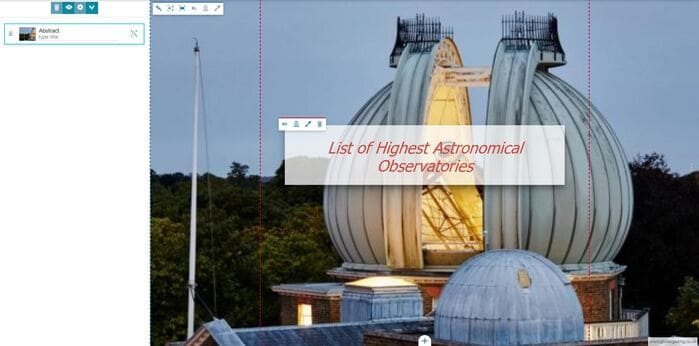
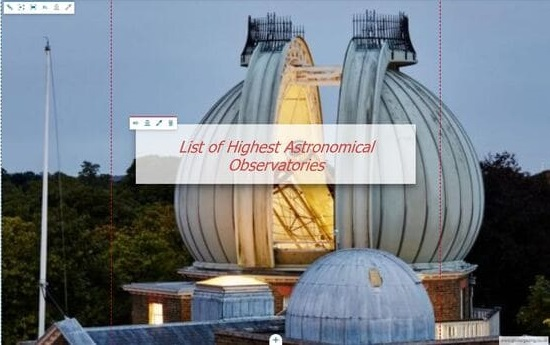
4438 geostory userguide second step

diff --git a/docs/theme/css/extra.css b/docs/theme/css/extra.css
@@ -67,7 +67,8 @@ li.md-tabs__item:hover{
 .rst-other-versions dl:nth-child(3), .rst-other-versions dl:nth-child(4) {
     display: none;
 }
-.ms-docimage {
+.ms-docimage, .md-typeset .ms-docimage{
+    max-width: 700px;
     display: block; 
     margin-left: auto; 
     margin-right: auto; 

diff --git a/docs/user-guide/title-section.md b/docs/user-guide/title-section.md
@@ -7,66 +7,68 @@ As soon as you create a new Story, by default, only a Title Section is present i
 
 By default, the content of a Title Section is a text window:
 
-<p style="text-align:center;"><img src="../img/title-section/text-window.jpg" style="max-width:700px;"/></p>
+<img src="../img/title-section/text-window.jpg" class="ms-docimage" style="width:250px"/>
 
 With a click inside the text window, it expands and the [Text Editor Toolbar](text-editor-toolbar.md) appears, allowing the user to write and edit the text of the title:
 
-<p style="text-align:center;"><img src="../img/title-section/text-editor.jpg" style="max-width:700px;"/></p>
+<img src="../img/title-section/text-editor.jpg" class="ms-docimage" style="width:600px"/>
 
 Once the text has been written and customized, it is possible to change the text window settings from the text window toolbar: 
 
-<p style="text-align:center;"><img src="../img/title-section/textwin-toolbar.jpg" style="max-width:700px;"/></p>
+<img src="../img/title-section/textwin-toolbar.jpg" class="ms-docimage" style="width:600px"/>
 
 The text window toolbar allows the user to change the following settings:
 
-* The **Change size** button <img src="../img/button/change-size.jpg" style="max-width:30px" valign="middle"/> can change the size of the text window in *Small*, *Medium*, *Large* or *Full*.
+* The **Change size** button <img src="../img/button/change-size.jpg" class="ms-docbutton"/> can change the size of the text window in *Small*, *Medium*, *Large* or *Full*.
 
-* The **Align content** button <img src="../img/button/align-content.jpg" style="max-width:30px" valign="middle"/> align the text window, inside the Container, on the *Left*, *Center* or *Right*.
+* The **Align content** button <img src="../img/button/align-content.jpg" class="ms-docbutton"/> align the text window, inside the Container, on the *Left*, *Center* or *Right*.
 
-* The **Change field theme** button <img src="../img/button/change-theme.jpg" style="max-width:30px" valign="middle"/> change the text window theme in *Bright*, *Bright text*, *Dark* or *Dark text*.
+* The **Change field theme** button <img src="../img/button/change-theme.jpg" class="ms-docbutton"/> change the text window theme in *Bright*, *Bright text*, *Dark* or *Dark text*.
 
-* The **Remove** button <img src="../img/button/remove.jpg" style="max-width:30px" valign="middle"/> delete the text window.
+* The **Remove** button <img src="../img/button/remove.jpg" class="ms-docbutton"/> delete the text window.
 
 !!! note
     When a section has only a content, and the user remove that content, the entire section will be also automatically deleted.
 
 Setting a title with *Large* size, aligned on the *Center* of the Container and with a *Bright* theme, the result is something like: 
 
-<p style="text-align:center;"><img src="../img/title-section/title-text.jpg" style="max-width:700px;"/></p>
+<img src="../img/title-section/title-text.jpg" class="ms-docimage" style="width:600px"/>
 
 ## Background
 
 For Title sections, it is possible to customize the background through the background editor toolbar:
 
-<p style="text-align:center;"><img src="../img/title-section/bck-editor-toolbar.jpg" style="max-width:700px;"/></p>
+<img src="../img/title-section/bck-editor-toolbar.jpg" class="ms-docimage" style="width:600px"/>
 
 The background editor toolbar, when no media are applied, allows the user to:
 
-* Add a media as background, with the **Change media source** button <img src="../img/button/change-media.jpg" style="max-width:30px" valign="middle"/> that opens the [Media Editor Window](media-editor-window.md)
+* Add a media as background, with the **Change media source** button <img src="../img/button/change-media.jpg" class="ms-docbutton"/> that opens the [Media Editor Window](media-editor-window.md)
 
-* Change the content height through the **Fit/adapt content** button <img src="../img/button/fit-adapt-content.jpg" style="max-width:30px" valign="middle"/>
+* Change the content height through the **Fit/adapt content** button <img src="../img/button/fit-adapt-content.jpg" class="ms-docbutton"/>
 
-### Editing a background image
+As background, it is possible to add three types of media: images, videos or maps.
+
+### Images
 
 Once an image is added as background the result is something like this:
 
-<p style="text-align:center;"><img src="../img/title-section/img-applied.jpg" style="max-width:700px;"/></p>
+<img src="../img/title-section/img-applied.jpg" class="ms-docimage" style="width:600px"/>
 
 In this case the background toolbar editor allow the user to customize the image background through the following settings:
 
-<p style="text-align:center;"><img src="../img/title-section/img-bck-toolbar.jpg" style="max-width:700px;"/></p>
+<img src="../img/title-section/img-bck-toolbar.jpg" class="ms-docimage"/>
 
-* **Change media source** <img src="../img/button/change-media.jpg" style="max-width:30px" valign="middle"/> that opens the [Media Editor Window](media-editor-window.md)
+* **Change media source** <img src="../img/button/change-media.jpg" class="ms-docbutton"/> that opens the [Media Editor Window](media-editor-window.md)
 
-* Change the content height through the **Fit/adapt content** button <img src="../img/button/fit-adapt-content.jpg" style="max-width:30px" valign="middle"/>
+* Change the content height through the **Fit/adapt content** button <img src="../img/button/fit-adapt-content.jpg" class="ms-docbutton"/>
 
-* Change the relation image/container, choosing between making the background cover the whole container or making the whole background visible inside the container <img src="../img/button/fit-img-container.jpg" style="max-width:30px" valign="middle"/>
+* Change the relation image/container, choosing between making the background cover the whole container or making the whole background visible inside the container <img src="../img/button/fit-img-container.jpg" class="ms-docbutton"/>
 
-* **Change size** <img src="../img/button/change-size3.jpg" style="max-width:30px" valign="middle"/> between *Small*, *Medium*, *Large* or *Full*
+* **Change size** <img src="../img/button/change-size3.jpg" class="ms-docbutton"/> between *Small*, *Medium*, *Large* or *Full*
 
-* **Align content** <img src="../img/button/align3.jpg" style="max-width:30px" valign="middle"/> on the *Left*, *Center* or *Right*
+* **Align content** <img src="../img/button/align3.jpg" class="ms-docbutton"/> on the *Left*, *Center* or *Right*
 
-* **Change field theme** <img src="../img/button/change-field-theme.jpg" style="max-width:30px" valign="middle"/> to set the colour of the empty background between *Bright* and *Dark*
+* **Change field theme** <img src="../img/button/change-field-theme.jpg" class="ms-docbutton"/> to set the colour of the empty background between *Bright* and *Dark*
 
 !!! warning
     The *Align content* and the *Change field theme* buttons are disabled if the image size is full screen

diff --git a/docs/user-guide/exploring-stories.md b/docs/user-guide/exploring-stories.md
@@ -3,7 +3,7 @@
 
 In [MapStore](https://mapstore.geo-solutions.it/mapstore/#/), the Story is a tool that allows you to express in a simple and dynamic way a concept, combining and connecting text, maps, images, video and other media as desired. The final result is an interactive flux of information that reflects user customizations.
 
-<span style="color:red">BREVE GIF CHE SCORRE UNA STORIA</span>
+<img src="../img/exploring-stories/story.gif" class="ms-docimage"/>
 
 The user can approach with a story in two different ways:
 
@@ -12,13 +12,14 @@ The user can approach with a story in two different ways:
 
 ## Edit Mode
 
-The *Edit Mode* is an approach that allows the user to edit a story by adding, removing or modifying the elements inside it. This operating mode and its tools are used both to edit an existing story and to create a new one. In order to create a new story, the user can click on the **New Story** button <img src="../img/button/new-story.jpg" style="max-width:30px" valign="middle"/> on [MapStore](https://mapstore.geo-solutions.it/mapstore/#/) homepage. As soon as you perform this operation the workflow appears in *Edit Mode* and composed of two main elements: the *Builder* and the *Sections Container* (later simply called *Container*).
+The *Edit Mode* allows the user to edit a story by adding, removing or modifying the elements inside it. This approach and its tools are used both to edit an existing story and to create a new one. <br>
+In order to create a new story, the user can click on the **New Story** button <img src="../img/button/new-story.jpg" class="ms-docbutton"/> on [MapStore](https://mapstore.geo-solutions.it/mapstore/#/) homepage. As soon as you perform this operation the workflow appears in *Edit Mode* and composed of two main elements: the *Builder* and the *Sections Container* (later simply called *Container*).
 
-<p style="text-align:center;"><img src="../img/exploring-stories/story-workspace.jpg" style="max-width:700px;"/></p>
+<img src="../img/exploring-stories/story-workspace.jpg" class="ms-docimage"/>
 
-The information flux of the Story is organized in Sections, that can be added from the <img src="../img/button/add-section.jpg" style="max-width:30px" valign="middle"/> button on the bottom of the *Container*. In particular, the user can take advantage of four different types of sections:
+The information flux of the Story is organized in Sections, that can be added from the <img src="../img/button/add-section.jpg" class="ms-docbutton"/> button on the bottom of the *Container*. In particular, the user can take advantage of four different types of sections:
 
-<p style="text-align:center;"><img src="../img/exploring-stories/sections.jpg" style="max-width:700px;"/></p>
+<img src="../img/exploring-stories/sections.jpg" class="ms-docimage"/>
 
 * [Title Section](title-section.md)
 * [Paragraph Section](paragraph-section.md)
@@ -27,3 +28,31 @@ The information flux of the Story is organized in Sections, that can be added fr
 
 ## View Mode
 
+The *View Mode* it is a way of approaching a story useful in cases where you would like to present the content of your work to someone, or simply every time you need to check up the progress of your work. <br>
+The user can access the *View Mode* through the **Show preview** button <img src="../img/button/show-preview.jpg" class="ms-docbutton"/> in Builder's toolbar, and the first display is organized like the following:
+
+<img src="../img/exploring-stories/view-mode.jpg" class="ms-docimage"/>
+
+Most of the page is occupied by a large display space, that can be navigated also through the Navigation bar on top-right of the story:
+
+<img src="../img/exploring-stories/story-navbar.jpg" class="ms-docimage"/>
+
+The user, scrolling through the story, can interact with it browsing and zooming the maps, or observing fullscreen images and videos with just one click:
+
+<img src="../img/exploring-stories/interact-maps.gif" class="ms-docimage"/>
+
+In order to switch back to *Edit Mode*, there is the **Navigation edit** button <img src="../img/button/edit-icon-1.jpg" class="ms-docbutton"/> on top-left of the story.
+
+## Save a Story
+
+Both in edit mode and new mode, the user can save your story, through the option button <img src="../img/button/burger.jpg" class="ms-docbutton"/> on the top bar. If the story is not saved yet, there's only the possibility to perform the Save, but if a story was already saved it is possible to choose between Save and Save as. Saving a Story it is possible to define the following settings:
+
+<img src="../img/exploring-stories/save-story.jpg" class="ms-docimage" width="400px"/>
+
+* **Name** (it's the only mandatory field)
+
+* **Thumbnail**
+
+* **Description**
+
+* **Permissions**

diff --git a/docs/user-guide/paragraph-section.md b/docs/user-guide/paragraph-section.md
@@ -1,55 +1,32 @@
 # Paragraph Section
 **********************
 
-The Paragraph Section allow the user to edit the content, inserting textual elements and/or media. In order to add a new content, the user can click on the <img src="../img/button/++++.jpg" style="max-width:30px" valign= "middle"/> button present just below each content. As said, it is possible to choose between text content or media content:
+The Paragraph Section allow the user to edit the content, inserting textual elements and/or media. In order to add a new content, the user can click on the <img src="../img/button/++++.jpg" class="ms-docbutton"/> button present just below each content. As said, it is possible to choose between text content or media content:
 
-<p style="text-align:center;"><img src="../img/paragraph-section/p-add-content.jpg" style="max-width:700px;"/></p>
+<img src="../img/paragraph-section/p-add-content.jpg" class="ms-docimage"/>
 
-* Choosing **Add Text Content** <img src="../img/button/add-text-content.jpg" style="max-width:30px" valign= "middle"/>, another text content is added just below the current one
+* Choosing **Add Text Content** <img src="../img/button/add-text-content.jpg" class="ms-docbutton"/>, another text content is added just below the current one
 
-* Choosing **Add Media Content** <img src="../img/button/add-media-content.jpg" style="max-width:30px" valign= "middle"/>, the Media Editor Window opens, allowing the user to add a new media
+* Choosing **Add Media Content** <img src="../img/button/add-media-content.jpg" class="ms-docbutton"/>, the Media Editor Window opens, allowing the user to add a new media
 
 ## Text Content
 
 By default, as soon as you add a Paragraph Section, an empty text content is already inside it:
 
-<p style="text-align:center;"><img src="../img/paragraph-section/paragraph-section.jpg" style="max-width:700px;"/></p>
+<img src="../img/paragraph-section/paragraph-section.jpg" class="ms-docimage"/>
 
 With a click on the text window, it is possible to write the text and customize it through the [Text Editor Toolbar](text-editor-toolbar.md). A possible result of adding and formatting the text can be the following: 
 
-<p style="text-align:center;"><img src="../img/paragraph-section/p-text-content.jpg" style="max-width:700px;"/></p>
+<img src="../img/paragraph-section/p-text-content.jpg" class="ms-docimage"/>
 
-The user can delete the text content with the Remove button  <img src="../img/button/remove2.jpg" style="max-width:30px" valign= "middle"/>.
+The user can delete the text content with the Remove button  <img src="../img/button/remove2.jpg" class="ms-docbutton"/>.
 
 ## Media Content
 
-Adding a media content, the [Media Editor Window](media-editor-window.md) opens, allowing the user to add one of the following media:
+Adding a media content, the [Media Editor Window](media-editor-window.md) opens, allowing the user to add an Image, a Video or a Map. 
 
-* Images
+### Images
 
-* Videos
+An image added inside the paragraph section can be customized through the [Content Image Toolbar](content-image-toolbar.md). An example of an image with *medium size* and *left alignment* set, added just below a text content, can be the following:
 
-* Maps
-
-### Image
-
-When an image is added to a Paragraph Section's content, there is the possibility to customize that image through the image editor toolbar:
-
-<p style="text-align:center;"><img src="../img/paragraph-section/p-img-toolbar.jpg" style="max-width:700px;"/></p>
-
-In particular, through the image editor toolbar, the user is able to:
-
-* **Change media source** <img src="../img/button/change-media2.jpg" style="max-width:30px" valign= "middle"/> accessing the [Media Editor Window](media-editor-window.md)
-
-* **Change size** <img src="../img/button/change-size2.jpg" style="max-width:30px" valign= "middle"/> choosing between *Small*, *Medium*, *Large* and *Full*
-
-* **Align content** <img src="../img/button/align2.jpg" style="max-width:30px" valign= "middle"/> on the *Left*, *Center* or *Right*
-
-!!! warning
-    The Align content button is disabled when the image size is full screen
-
-* **Remove** <img src="../img/button/remove2.jpg" style="max-width:30px" valign= "middle"/> the content
-
-Adding a Paragraph section with a text content followed by an image with *medium size* and *left alignment* set, the result should look like the following:
-
-<p style="text-align:center;"><img src="../img/paragraph-section/parag-section.jpg" style="max-width:700px;"/></p>
+<img src="../img/paragraph-section/parag-section.jpg" class="ms-docimage"/>

diff --git a/docs/user-guide/media-editor-window.md b/docs/user-guide/media-editor-window.md
@@ -3,7 +3,7 @@
 
 The **Change media source** button allows to access the Media Editor Window:
 
-<p style="text-align:center;"><img src="../img/media-editor-window/media-editor-window.jpg" style="max-width:700px;"/></p>
+<img src="../img/media-editor-window/media-editor-window.jpg" class="ms-docimage"/>
 
 Through this window, you can add or edit three different types of media:
 
@@ -15,9 +15,9 @@ Through this window, you can add or edit three different types of media:
 
 ## Images
 
-In order to add an image, the user can click on the **Images** button <img src="../img/button/images.jpg" style="max-height:30px" valign="middle"/> for switch to the images section. In this section of the media editor window, with a click on the **Add** button <img src="../img/button/+++.jpg" style="max-height:30px" valign="middle"/>, it is possible to define the image settings.
+In order to add an image, the user can click on the **Images** button <img src="../img/button/images.jpg" class="ms-docbutton"/> for switch to the images section. In this section of the media editor window, with a click on the **Add** button <img src="../img/button/+++.jpg" class="ms-docbutton"/>, it is possible to define the image settings.
 
-<p style="text-align:center;"><img src="../img/media-editor-window/img-settings.jpg" style="max-width:700px;"/></p>
+<img src="../img/media-editor-window/img-settings.jpg" class="ms-docimage"/>
 
 In particular, it is possible to insert the following parameters:
 
@@ -34,11 +34,11 @@ In particular, it is possible to insert the following parameters:
 !!! warning
     **Source** and **Title** are mandatory fields.
 
-With a click on **Save** <img src="../img/button/save-icon.jpg" style="max-height:30px" valign="middle"/>, the image is insert in images list and immediately available on preview.
+With a click on **Save** <img src="../img/button/save-icon.jpg" class="ms-docbutton"/>, the image is insert in images list and immediately available on preview.
 
-<p style="text-align:center;"><img src="../img/media-editor-window/img-preview.jpg" style="max-width:700px;"/></p>
+<img src="../img/media-editor-window/img-preview.jpg" class="ms-docimage"/>
 
 !!! note
-    It's always possible to change an image's settings through the **Edit** button <img src="../img/button/editing-button.jpg" style="max-height:30px" valign="middle"/>.
+    It's always possible to change an image's settings through the **Edit** button <img src="../img/button/editing-button.jpg" class="ms-docbutton"/>.
 
-Finally, the image is inserted into the story by clicking on the **Apply** button <img src="../img/button/apply-button.jpg" style="max-height:30px" valign="middle"/>.
+Finally, the image is inserted into the story by clicking on the **Apply** button <img src="../img/button/apply-button.jpg" class="ms-docbutton"/>.

diff --git a/docs/user-guide/immersive-section.md b/docs/user-guide/immersive-section.md
@@ -1,2 +1,43 @@
 # Immersive Section
 **********************
+
+The immersive section is composed of two elements: the background and the immersive content. As soon as you add an immersive section to your story, an empty background with an empty text content will be displayed.
+
+<img src="../img/immersive-section/immersive-section-fd.jpg" class="ms-docimage"/>
+
+## Content
+
+Inside an Immersive Section the user can customize the content area through the Immersive Content Toolbar:
+
+<img src="../img/immersive-section/imm-content-toolbar.jpg" class="ms-docimage" style="width:400px"/>
+
+In particular, it possible to:
+
+* **Change size** (*Small*, *Medium*, *Large* or *Full*)
+
+* **Align content** (*Left*, *Center* or *Right*)
+
+* **Change field theme** (*Bright*, *Bright text*, *Dark* or *Dark text*)
+
+An example of an Immersive Content with *Small* size, aligned to the *Right* and with *Dark* field theme can be like the following:
+
+<img src="../img/immersive-section/imm-content-edit.jpg" class="ms-docimage"/>
+
+The immersive content can host both text or media contents. A new content can be added inside the immersive content through the <img src="../img/button/++++.jpg" class="ms-docbutton"/> button, or can be removed through the <img src="../img/button/remove2.jpg" class="ms-docbutton"/> button. 
+
+<img src="../img/immersive-section/add-remove.jpg" class="ms-docimage" style="width:400px"/>
+
+As soon as you add a text content, it appears just below the current content, and with a simple click inside it, the user is allow to write his text and formatting it through the [Text Editor Toolbar](text-editor-toolbar.md). An example of a text content can be the following:
+
+<img src="../img/immersive-section/is-text-content.jpg" class="ms-docimage" style="width:400px"/>
+
+Adding a media content the [Media Editor Window](media-editor-window.md) appears, allowing the user to add an Image, a Video or a Map.
+
+### Images
+
+An image added inside the immersive content can be customized through the [Content Image Toolbar](content-image-toolbar.md). An example of an image with *Medium* size and *Right* alignment set, added just below a text content, can be the following:
+
+<img src="../img/immersive-section/imm-txt-img.jpg" class="ms-docimage" style="width:400px"/>
+
+!!! note
+    Only for Immersive Section, when the user try to add another section of the same type just below the current one, the added section is actually another immersive content, that fits inside the same immersive section. 

diff --git a/docs/user-guide/text-editor-toolbar.md b/docs/user-guide/text-editor-toolbar.md
@@ -3,30 +3,32 @@
 
 With the text editor toolbar it is possible to customize the text by modifying the following aspects:
 
+<img src="../img/text-editor-toolbar/text-editor-toolbar.jpg" class="ms-docimage"/>
+
 * **Font** (*Inherit*, *Arial*, *Georgia*, *Impact*, *Tahoma*, *Times New Roman* or *Verdana*)
 
-<p style="text-align:center;"><img src="../img/text-editor-toolbar/font.jpg" style="max-width:150px;"/></p>
+<img src="../img/text-editor-toolbar/font.jpg" class="ms-docimage" style="width:200px"/>
 
 * **Block Type** (*Normal*, *H1*, *H2*, *H3*, *H4*, *H5*, *H6*, *Blockquote* or *Code*)
 
-<p style="text-align:center;"><img src="../img/text-editor-toolbar/block-type.jpg" style="max-width:120px;"/></p>
+<img src="../img/text-editor-toolbar/block-type.jpg" class="ms-docimage" style="width:150px"/>
 
 * **Typographical emphasis** (*Bold*, *Italic*, *Underline*, *Strikethrough* or *Monospace*)
 
-<p style="text-align:center;"><img src="../img/text-editor-toolbar/typo-emphasis.jpg" style="max-width:700px;"/></p>
+<img src="../img/text-editor-toolbar/typo-emphasis.jpg" class="ms-docimage"/>
 
 * **Alignment** (*Left*, *Center*, *Right* or *Justify*)
 
-<p style="text-align:center;"><img src="../img/text-editor-toolbar/alignment.jpg" style="max-width:700px;"/></p>
+<img src="../img/text-editor-toolbar/alignment.jpg" class="ms-docimage"/>
 
 * **Color Picker** (with this tool it is possible to change the text color to customize the highlighting)
 
-<p style="text-align:center;"><img src="../img/text-editor-toolbar/color-picker.jpg" style="max-width:250px;"/></p>
+<img src="../img/text-editor-toolbar/color-picker.jpg" class="ms-docimage" style="width:200px"/>
 
 * **Link/Unlink** (this tool allows the user to add or remove an hyperlink to the text)
 
-<p style="text-align:center;"><img src="../img/text-editor-toolbar/link.jpg" style="max-width:250px;"/></p>
+<img src="../img/text-editor-toolbar/link.jpg" class="ms-docimage"style="width:250px"/>
 
 * **Remove** (this tool is useful to remove text changes)
 
-<p style="text-align:center;"><img src="../img/text-editor-toolbar/remove.jpg" style="max-width:700px;"/></p>
+<img src="../img/text-editor-toolbar/remove.jpg" class="ms-docimage"/>

diff --git a/docs/user-guide/media-section.md b/docs/user-guide/media-section.md
@@ -1,2 +1,24 @@
 # Media Section
 **********************
+
+Media Section are similar to [Paragraph Sections](paragraph-section.md) but the main difference is that as soon as the user try to add a new Media Section, the [Media Editor Window](media-editor-window.md) appears, asking to define the media that is going to be added. An example of a new Media Section with an image added can be like the following:
+
+<img src="../img/media-section/media-s.jpg" class="ms-docimage"/>
+
+Once the first media is added to the Media Section it is possible to add new media or text content or remove the existing ones, just like in the [Paragraph Sections](paragraph-section.md). 
+
+<img src="../img/media-section/media-add-c.jpg" class="ms-docimage" style="width:400px"/>
+
+## Text
+
+Every time a text content is added to the section, the user can write his text and customize it through the [Text Editor Toolbar](text-editor-toolbar.md). A text content added just below an image, for example, can display like the following:
+
+<img src="../img/media-section/media-img-txt.jpg" class="ms-docimage" style="width:500px"/>
+
+## Media
+
+Once a media content is added to the section, the user can customize its setting through the following:
+
+* For images the [Content Image Toolbar](content-image-toolbar.md) appears. An example of a *Small* size image, aligned to the *Left*, can be the following: 
+
+<img src="../img/media-section/media-img-set.jpg" class="ms-docimage" style="width:500px"/>

diff --git a/docs/user-guide/content-image-toolbar.md b/docs/user-guide/content-image-toolbar.md
@@ -1,0 +1,23 @@
+# Content Image Toolbar
+**********************
+
+As soon as you add an image inside a content, the Content Image Toolbar appears at the top of the image: 
+
+<img src="../img/content-image-toolbar/c-img-toolbar.jpg" class="ms-docimage"/>
+
+In particular, through this toolbar, the user is able to perform the following operation:
+
+* **Change media source** <img src="../img/button/change-media2.jpg" class="ms-docbutton"/> accessing the [Media Editor Window](media-editor-window.md)
+
+* **Change size** <img src="../img/button/change-size2.jpg" class="ms-docbutton"/> choosing between *Small*, *Medium*, *Large* and *Full*
+
+* **Align content** <img src="../img/button/align2.jpg" class="ms-docbutton"/> on the *Left*, *Center* or *Right*
+
+* **Remove** <img src="../img/button/remove2.jpg" class="ms-docbutton"/> the image content
+
+!!! warning
+    The **Align content** button is enabled only when the size of the image is not full screen.
+
+An example of a content image with *large* size and *right* alignment can be like the following:
+
+<img src="../img/content-image-toolbar/c-image-setted.jpg" class="ms-docimage"/>
